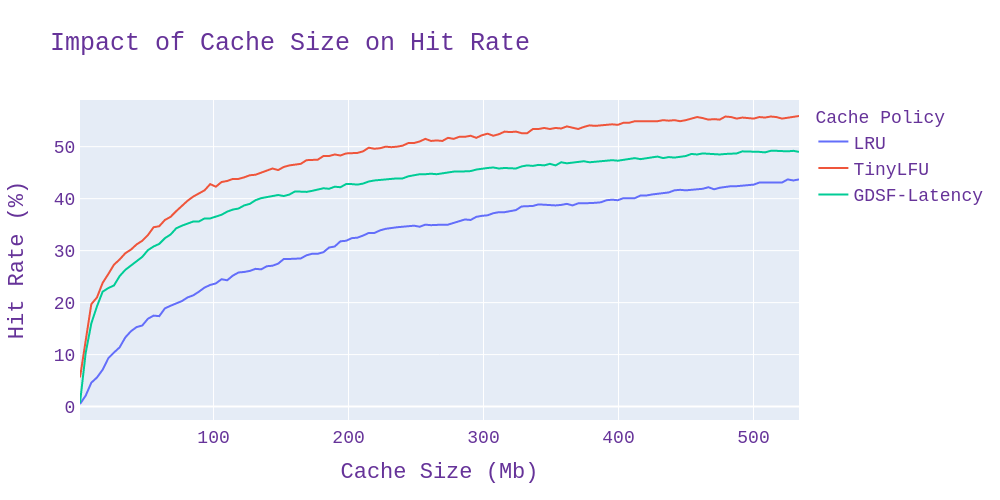
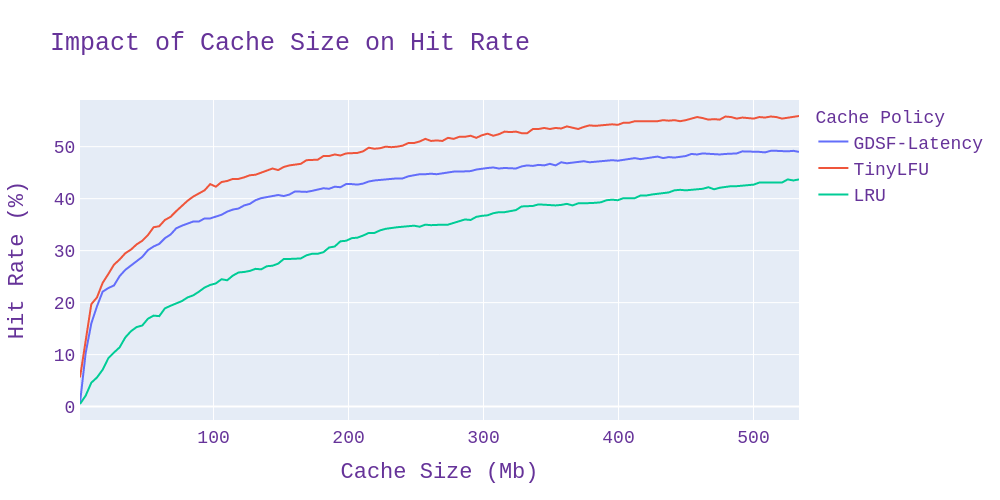
Address review comments and regenerate graphs for consistent colors

diff --git a/_posts/2021-04-23-moving-past-lru.md b/_posts/2021-04-23-moving-past-lru.md
@@ -10,16 +10,17 @@ author:
   bio: Software Developer, Index Team
   image: wdussault.jpg
 ---
-Making search engines consistently fast is extremely hard. They have tons of interconnected components, and a minor degradation in one part of the system can easily spiral out of control and become a critical performance issue. Caches in particular are especially crucial to get right, because they can cause a great variety of problems: sub-optimal memory usage, query performance degradations, excessive contention in hot paths, etc.
+Making search engines consistently fast is extremely hard. They have tons of interconnected components, and a minor degradation in one part of the system can easily spiral out of control and become a critical performance issue. Caches in particular are especially crucial to get right, because they can cause a great variety of problems: sub-optimal memory usage, query performance degradations, excessive contention in hot paths, etc. In this post, we'll cover
+the current state of caches in the Coveo index, as well as the design and implementation of a new caching library able to solve our issues.
 
 <!-- more -->
 
 Currently, the Coveo index has around 30 internal caches, each of them using one of six different implementations. Among other things, they cache parts of internal index structures, frequently returned documents, and the results of often-seen query expressions. The purpose of these caches being wildly different from one another, it follows that their implementations are also very heterogeneous. We have, among others, multi-level caches with compressed levels, persisted caches, as well as *a lot* of Least-Recently-Used (LRU) caches.
 
-LRU is one of the simplest caching schemes available. It offers an *acceptable* level of performance  in most scenarios, while at the same time being really easy to implement.
+LRU is one of the simplest caching schemes available. It offers an *acceptable* level of performance in most scenarios, while at the same time being really easy to implement.
 
-![](/images/2021-04-23-moving-past-lru/lru_structure.png)
-_In-Memory Structure of an LRU cache_
+![In-Memory Structure of an LRU Cache](/images/2021-04-23-moving-past-lru/lru_structure.png)
+_In-Memory Structure of an LRU Cache_
 
 LRU is usually implemented as a linked list. Whenever an item is added or accessed in the cache, it is moved to the front of the list. When attempting to insert an item while the cache is full, the item at the back of the list is evicted to make some space.
 
@@ -31,7 +32,7 @@ Second and perhaps most importantly, LRU makes the bold assumption that all cach
 
 Although we do have a reusable implementation of LRU in-house, we often end up implementing custom logic on top of it to reduce the fundamental issues this algorithm causes.
 
-The sheer number of different cache implementations in our code base makes it hard to add features (e.g. metrics for tracking hit rate) to all caches, because doing so would introduce significant code duplication. Furthermore, the various implementations don't uphold the same invariants (e.g. thread safety), so trying to change things across the board can be a bit like dancing on a minefield.
+The sheer number of different cache implementations in our code base makes it hard to add features (e.g., metrics for tracking hit rate) to all caches, because doing so would introduce significant code duplication. Furthermore, the various implementations don't uphold the same invariants (e.g., thread safety), so trying to change things across the board can be a bit like dancing on a minefield.
 
 Since these caches were added one at the time over the course of several years, no organized effort has been made to try and unify these implementations while still satisfying all of our existing requirements.
 
@@ -39,15 +40,15 @@ At least, not until now.
 
 ## Designing a Solution
 
-When we noticed that the performace of our caches wasn't where we wanted it to be, and that making large changes across many caches was becoming slow and error-prone, we took the initiative of designing what has now become a general-purpose C++ caching library called [Cachemere](https://github.com/coveooss/cachemere).
+When we noticed that the performace of our caches wasn't where we wanted it to be, and that making large changes across many caches was becoming slow and error-prone, we took the initiative to design what has now become a general-purpose C++ caching library called [Cachemere](https://github.com/coveooss/cachemere).
 
-The first step in designing this new general-purpose cache is to come up with a modular system for describing cache behavior. Doing so will allow us to implement a generic cache once, and override specific parts of its behavior as required by the use case.
+The first step in designing this new general-purpose cache is to create a modular system for describing cache behavior. Doing so will allow us to implement a generic cache once, and override specific parts of its behavior as required by the use case.
 
 When mapping out the flowchart representing a typical cache insertion process (illustrated below), a logical separation in three components can be observed. This separation is the basis of Cachemere's design.
 
  The _Insertion Policy_ answers all questions related to whether an item *should* be in the cache. The _Cache_ owns the values that were inserted and tracks its memory usage. Meanwhile, the _Eviction Policy_ is responsible for ordering items that are in the cache by order of preference.
 
-![](/images/2021-04-23-moving-past-lru/insert_flow.png)
+![Cachemere Insertion Process](/images/2021-04-23-moving-past-lru/insert_flow.png)
 _Cachemere Insertion Process_
 
 This design allows Cachemere to provide a variety of policies, while still allowing the end-user to implement purpose-built policies without losing the benefits of a unified cache.
@@ -57,13 +58,19 @@ This design allows Cachemere to provide a variety of policies, while still allow
 Cachemere provides a configurable cache implementation, which comes with goodies such as automatic tracking of hit rate and [byte hit rate](https://www.igi-global.com/dictionary/web-caching/36973).
 
 At the time of writing, Cachemere also comes with a selection of policies used to implement various caching schemes:
+
 #### Least-Recently-Used (LRU)
+
 Simplest caching scheme. Aims to provide a good baseline.
 
 #### Tiny Least-Frequently-Used (TinyLFU)
+
 Memory-conscious caching scheme aiming to maximize hit rate.
 
+Read the paper [here](https://arxiv.org/abs/1512.00727).
+
 #### Greedy-Dual-Size-Frequency (GDSF)
+
 Caching scheme aiming to minimize the average cost of a cache miss.
 
 For more information, take a look at [the documentation](todo://link.to.documentation.once.published).
@@ -90,7 +97,7 @@ struct ExpensiveObject {
 
 Now, we'll define some type aliases to make the role of the different template parameters a bit clearer. This is completely optional but enhances readability.
 
-The cache needs to be configured with two objects for computing the amount of memory used by each key and value. Fortunately, Cachemere provides a suite of measurement tools to cover most common use cases (e.g. calling `sizeof()`, `Object::capacity()` , or `Object::size()`).
+The cache needs to be configured with two objects for computing the amount of memory used by each key and value. Fortunately, Cachemere provides a suite of measurement tools to cover most common use cases (e.g., calling `sizeof()`, `Object::capacity()` , or `Object::size()`).
 
 ```cpp
 // ...
@@ -105,7 +112,7 @@ using Value = ExpensiveObject;
 using KeySize = cachemere::measurement::CapacityDynamicallyAllocated<std::string>;
 
 // Since ExpensiveObject has no dynamically allocated memory, a simple
-// sizeof gives an good estimation of memory usage.
+// sizeof gives an good estimate of memory usage.
 using ValueSize = cachemere::measurement::SizeOf<ExpensiveObject>;
 
 ```
@@ -159,21 +166,21 @@ Now that we've designed an elegant solution to our caching problems, let's exami
 
 As stated above, LRU's largest shortcomings in our applications are its sub-optimal hit rate, and its tendency to evict items that are very costly to reload when accessed again (leading to much higher average latency due to long reloads).
 
-To measure how well Cachemere's policies address these shortcomings, we designed a benchmark  with characteristics similar to our production workloads: heterogeneous item sizes, heterogeneous reload costs, along with a very small fraction (~0.5% - 1%) of items having a much higher (~100x) reload cost.
+To measure how well Cachemere's policies address these shortcomings, we designed a benchmark with characteristics similar to our production workloads: heterogeneous item sizes, heterogeneous reload costs, along with a very small fraction (~0.5% - 1%) of items having a much higher (~100x) reload cost.
 
 We then ran this benchmark with multiple cache sizes against the three caching schemes provided with Cachemere: LRU, TinyLFU, and GDSF and measured the hit rate as well as the average latency per cache access.
 
 From the characteristics of each caching scheme described above, we expect both GDSF and TinyLFU to have a considerable edge over LRU in all benchmarks. We also expect TinyLFU to be ahead in hit rate benchmarks, while GDSF should come out on top in the cost (latency) benchmark.
 
-![](/images/2021-04-23-moving-past-lru/hit_rate.png)
+![Impact of Cache Size on Hit Rate](/images/2021-04-23-moving-past-lru/hit_rate.png)
 
 For the hit rate, the results are very straightforward. Both TinyLFU and GDSF significantly outperform LRU for all tested cache sizes, with TinyLFU coming out ahead, as expected.
 
-![](/images/2021-04-23-moving-past-lru/latency.png)
+![Impact of Cache Size on Latency](/images/2021-04-23-moving-past-lru/latency.png)
 
 As for average latency, the results are initially a bit more surprising. GDSF performs very well - as expected - but TinyLFU seems to be performing much better than anticipated considering that it pays no attention whatsoever to cost of cache misses. Upon further examination however, this result is explained by the fact that TinyLFU has a higher overall hit rate, so the average cost ends up lower even though no effort is made to minimize reload cost.
 
-![](/images/2021-04-23-moving-past-lru/miss_latency.png)
+![Impact of Cache Size on Miss Latency](/images/2021-04-23-moving-past-lru/miss_latency.png)
 
 We can confirm this by plotting the average reload cost on cache miss instead of overall, and doing so makes it clear that GDSF does a pretty good job of reducing latency.
 
@@ -182,6 +189,9 @@ It is also worth noting that TinyLFU has a higher average miss latency than LRU 
 With these results, we can be confident that Cachemere offers tools that are good enough to improve the performance of our caches while uniting all of them under a single implementation.
 
 ## Next Steps
+
 We are now at the stage of progressively replacing caches in the Coveo index with Cachemere's offering, starting with the simplest caches and working our way up towards the most complex ones. Along the way we'll certainly be making exciting additions to the library, focusing at first on performance.
 
 Cachemere still being in its early days, be sure to let us know how it works (or *doesn't* work) for you if you do give it a try. We're also open to contributions, so feel free to get in touch!
+
+_Do you like this type of challenge? Do you think there are other ways to improve our caches? [Join the Coveo Team](https://www.coveo.com/en/company/careers/open-positions) and help us improve the search experience!_
